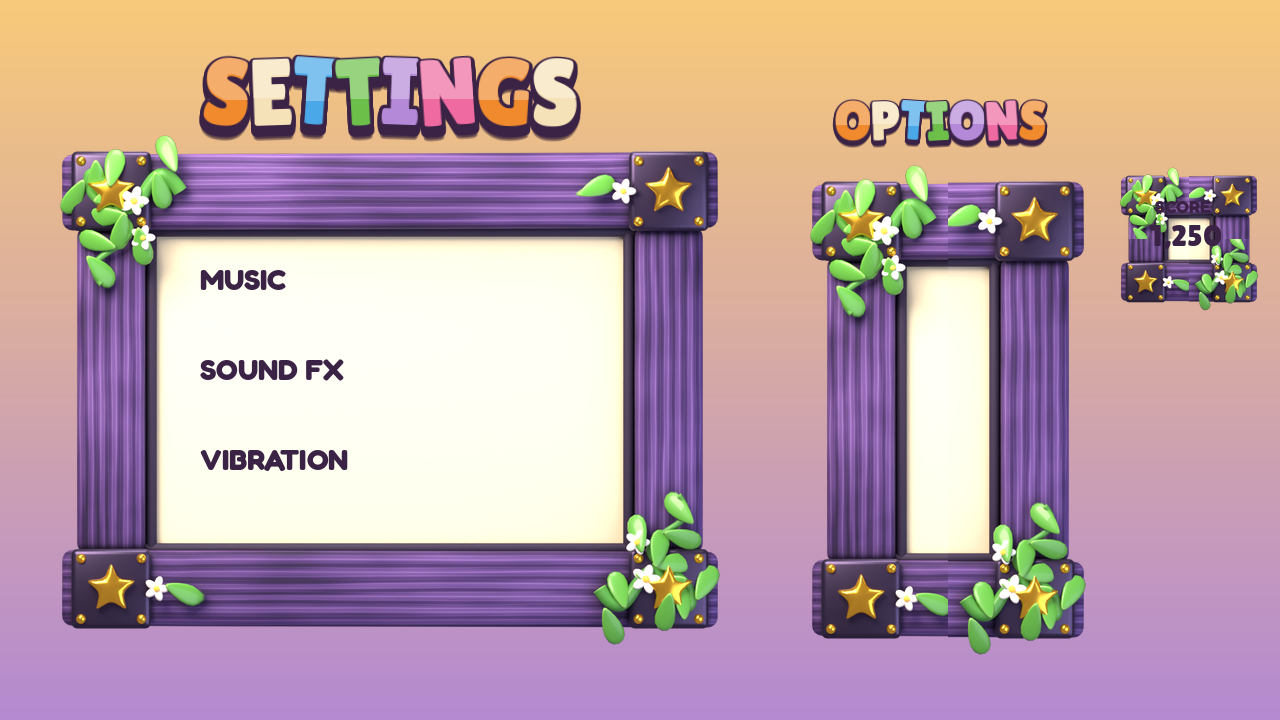
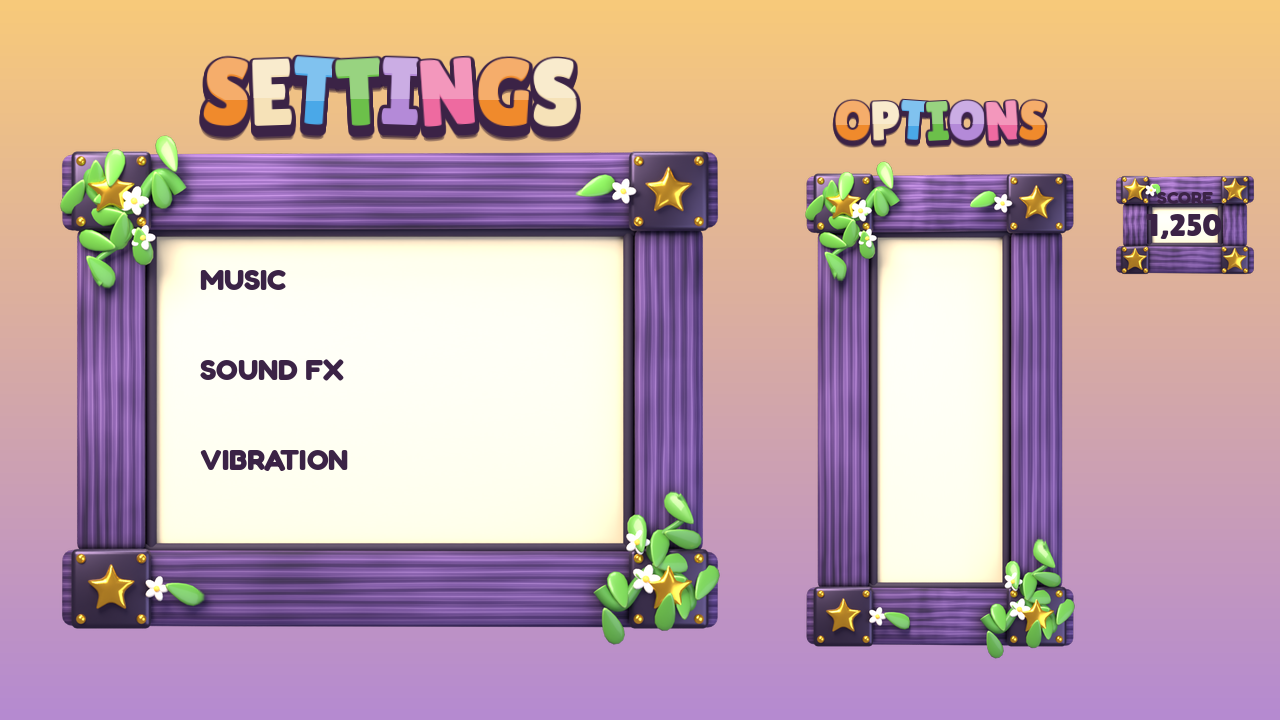
wip(art): agent output (style R&D evidence, block assets)
Story: art bible v2 (design/art/art-bible.md)

Claude-Session: https://claude.ai/code/session_015gA98JmmjSJ5ZLv762bPy3

Changed region(s): [[0.625, 0.2139, 1.0, 0.9167]]

diff --git a/prototypes/style_rnd/make_side_by_side.py b/prototypes/style_rnd/make_side_by_side.py
@@ -28,4 +28,4 @@ s = Image.new("RGB", (1400, 410), (59, 35, 70)); d = ImageDraw.Draw(s)
 for i, (im, k) in enumerate(zip(ims, ("LINEAR", "FILMIC", "ACES", "AGX (chosen)"))):
     s.paste(im, (i * 350, 50)); d.text((i * 350 + 10, 8), k, font=FONT, fill=(248, 200, 64) if i == 3 else (246, 231, 196))
 s.save(E + "a_tonemap_strip.png"); print("wrote strip")
-for k in ("linear", "filmic", "aces", "agx"): os.remove(E + "a_tonemap_%s.png" % k)
+#for k in ("linear", "filmic", "aces", "agx"): os.remove(E + "a_tonemap_%s.png" % k)
